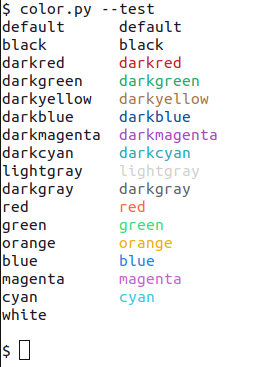
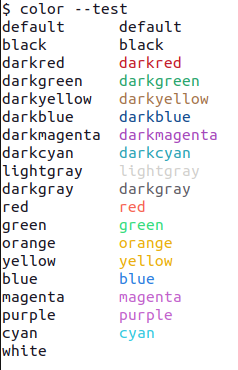
Adding aliases: yellow->orange, purple->magenta
I changed the color codes and their labels last week.  I used to allow what I called "yellow" and "purple" but there are no labels for those colors in the new codes.  "orange" and "magenta" are close enough to me so I'm making them equivalent.

Changed region(s): [[0.0, 0.0, 0.9118, 1.0]]

diff --git a/bin/color.py b/bin/color.py
@@ -74,8 +74,10 @@ class Color(object):
     'red':         91,
     'green':       92,
     'orange':      93,
+    'yellow':      93, # technically, this is known as "orange" but it looks "yellow" to me and it pisses me off that there IS no "yellow"
     'blue':        94,
     'magenta':     95,
+    'purple':      95, # technically, this is known as "magenta" but it looks "purple" to me and it pisses me off that there IS no "purple"
     'cyan':        96,
     'white':       97,
   }

diff --git a/doc/color.py.md b/doc/color.py.md
@@ -20,7 +20,7 @@ options:
   -r, --reset           Reset a console to default color only
   -b BACKGROUND_COLOR, --background-color BACKGROUND_COLOR
                         Choose a background color: default, black, darkred, darkgreen, darkyellow, darkblue, darkmagenta, darkcyan, lightgray, darkgray, red, green,
-                        orange, blue, magenta, cyan, white
+                        orange, yellow, blue, magenta, purple, cyan, white
   -p, --persist         Set a console to the specified color
   -v, --verbose         Enable debugging
 ```
@@ -28,7 +28,7 @@ options:
 ### Positional arguments
 | Argument | Description                      | Default                                                                                                                                                                       |
 |----------|----------------------------------|-------------------------------------------------------------------------------------------------------------------------------------------------------------------------------|
-| `color`  | The foreground color.  Choices: <ul><li>black</li><li>blue</li><li>cyan</li><li>darkblue</li><li>darkcyan</li><li>darkgray</li><li>darkgreen</li><li>darkmagenta</li><li>darkred</li><li>darkyellow</li><li>default</li><li>green</li><li>lightgray</li><li>magenta</li><li>orange</li><li>red</li><li>white</li></ul> | None, the foreground color is required                                                                                                                                        |
+| `color`  | The foreground color.  Choices: <ul><li>black</li><li>blue</li><li>cyan</li><li>darkblue</li><li>darkcyan</li><li>darkgray</li><li>darkgreen</li><li>darkmagenta</li><li>darkred</li><li>darkyellow</li><li>default</li><li>green</li><li>lightgray</li><li>magenta</li><li>orange</li><li>purple</li><li>red</li><li>white</li><li>yellow</li></ul> | None, the foreground color is required                                                                                                                                        |
 | `text`   | Text to display                  | If not specified, the script will read text from stdin.  Either `text` must be specified or stdin must be directed - the script will not read text directly from the terminal |
 
 
@@ -95,3 +95,4 @@ $
       color.py: error: argument color: 'b' is ambiguous: black, blue
       $
       ``` 
+- _yellow_ and _purple_ are technically not supported and that pisses me off.  To me, _orange_ and _magenta_ are close enough (respectively) so I'm making them equivalent.
